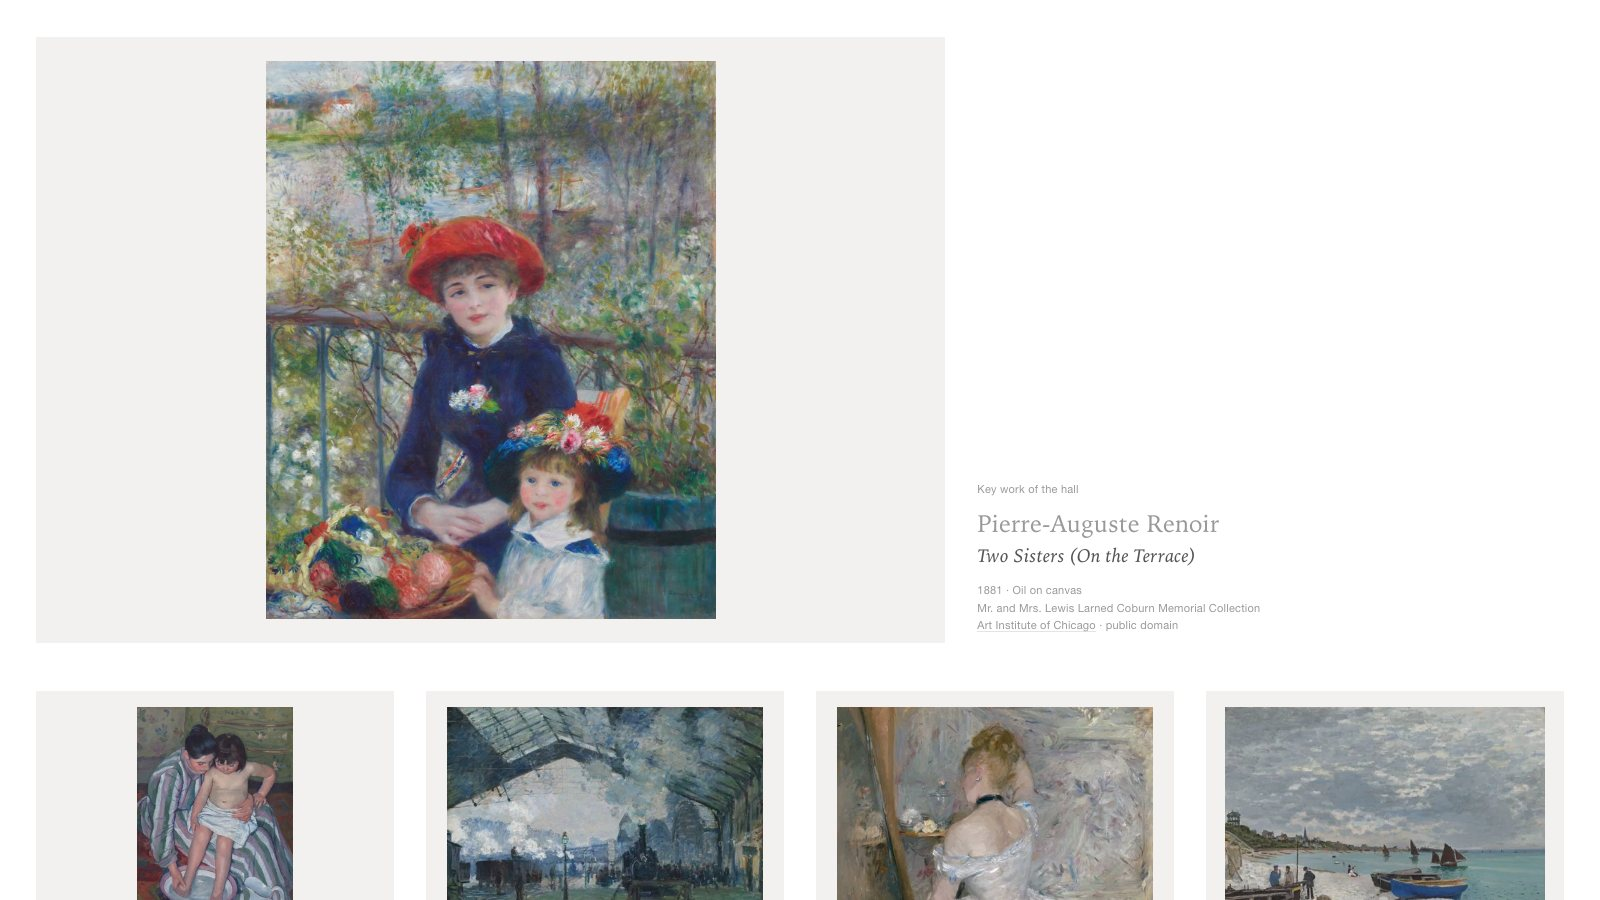
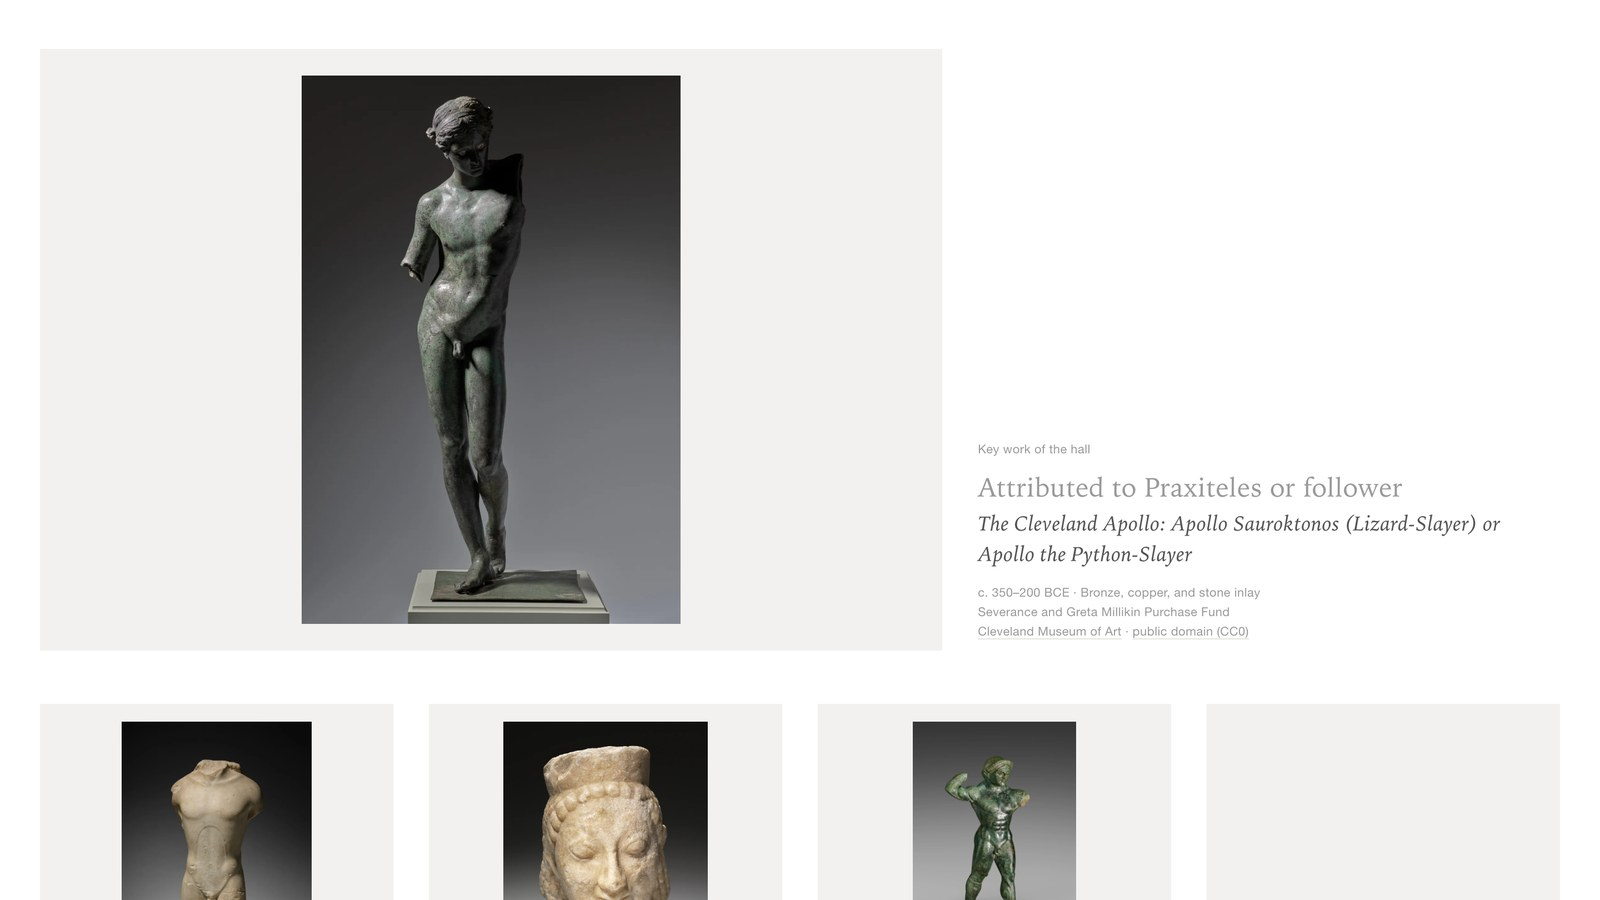
Update EPRIS Museum card: 39 halls, five open collections, sculpture
The card still described the museum's first version (Art Institute of
Chicago only, "four centuries", a 3D building that no longer exists on
that domain). It now reflects the current site: Cleveland Museum of Art
and the National Gallery of Art joined AIC, eight halls of sculpture
opened, and the newest works are Wikimedia Commons photography and
Webb telescope images under open licences. Screenshot refreshed to a
sculpture hall (Antiquity) rather than an Impressionism painting, to
show the new scope.

diff --git a/index.html b/index.html
@@ -222,7 +222,7 @@
         <div class="shot"><img src="images/works/museum.jpg" alt="EPRIS Museum" width="1600" height="900" decoding="async"></div>
         <div class="role mono">Virtual museum · curation and engineering</div>
         <h3>EPRIS Museum</h3>
-        <p>Public-domain painting drawn from the Art Institute of Chicago over IIIF and hung as a route through four centuries. The hang is an argument rather than an alphabet: each hall carries its own wall length and date span, and every work keeps its author, date and collection of origin. The building itself is written as geometry instead of imported as a model, so a hall is a stable address you can cite.</p>
+        <p>Public-domain and openly licensed work — sculpture and painting from the Art Institute of Chicago, the Cleveland Museum of Art and the National Gallery of Art, prize-winning nature photography and James Webb Space Telescope exposures from Wikimedia Commons — hung as one route across 39 halls and more than 500 works, from Archaic Greek bronze to images taken this year. Every object is drawn to its own recorded scale: paintings on a shared centreline, sculpture standing on the floor at its true height, worked out from its own photograph where no measurement survives. Each work keeps its author, date, licence and museum of origin, and each hall is a stable address you can cite.</p>
         <div class="meta mono"><span class="t">museum.eprisjournal.com</span><span><i class="ext" aria-hidden="true"></i></span></div>
       </a>
 
